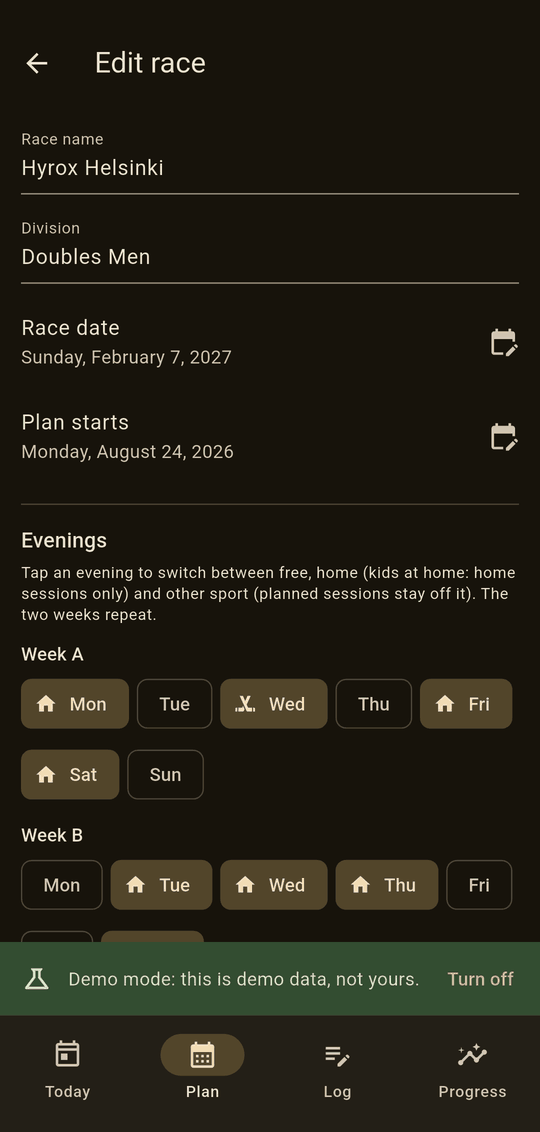
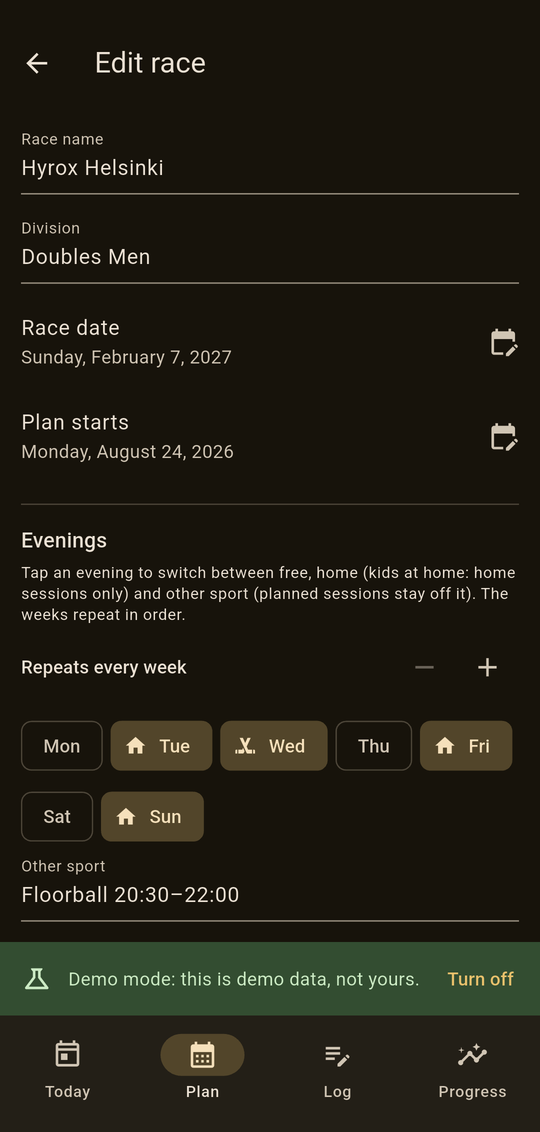
Update the guide (eightfold 0f29825)

Changed region(s): [[0.0296, 0.5256, 0.9481, 0.8348], [0.8593, 0.773, 0.9481, 0.8039], [0.9185, 0.8348, 0.9481, 0.8657]]

diff --git a/index.md b/index.md
@@ -27,18 +27,24 @@ The screenshots show [demo mode](#demo-mode), so the data in them is made up.
 
 ## Setting up your race
 
-<img src="images/race_setup.png" width="240" alt="Race setup: race name, division, race date, plan start and the evening rotation">
+<img src="images/race_setup.png" width="240" alt="Race setup: race name, division, race date, plan start and a one-week evening schedule">
 
 On first launch you enter the race: its name, division and date, and when
 training starts. The plan runs from the start date to race day in Monday to
 Sunday weeks.
 
-**Evenings** describe your two-week rhythm. Tap a day to switch it between:
+**Evenings** describe your usual week. Tap a day to switch it between:
 
 - **Free:** gym and run sessions go here.
 - **Home:** only home sessions, such as evenings with the kids.
 - **Sport:** another sport, such as floorball. It gets its own session, and
   planned training stays off it.
+
+If your weeks differ, such as a two-week custody rhythm, use **+** to make the
+schedule repeat every two weeks, or up to eight. Each week then has its own
+row, and **Same as previous week** copies the week above it: four weeks of one
+pattern and four of another is an eight-week schedule. **Week 1 starts** sets
+which Monday the schedule counts from.
 
 Saving builds the whole plan: base, build, race-specific and taper phases,
 with a lighter deload week every fourth week. You can edit all of this later
